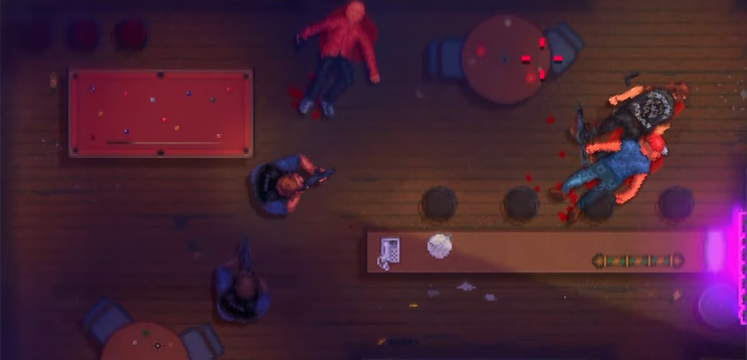
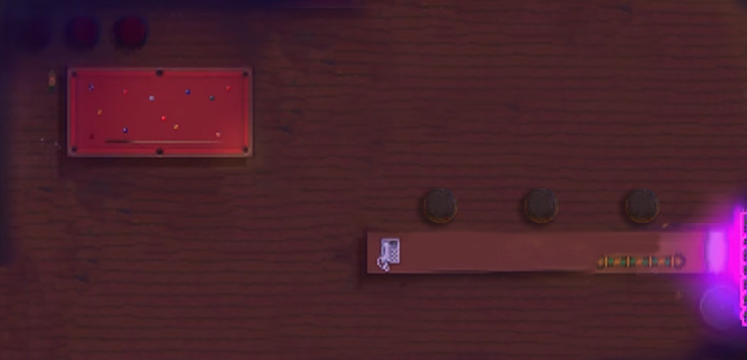
map extended and collision added

diff --git a/assignment/JS-PROJECTS/final-project/js/roomBorder.js b/assignment/JS-PROJECTS/final-project/js/roomBorder.js
@@ -1,15 +1,25 @@
 function RoomBorder(c,x,y,t,r,b,l,room){
   this.c = c;
+  this.doorGap=70;
   this.roomInfo = room;
   this.horiBorderImage = document.getElementById('horiBorder');
   this.vertiBorderImage = document.getElementById('vertiBorder');
-  console.log("room",this.roomInfo);
   this.sides = {
     top :t,
     right :r,
     bottom :b,
     left :l
   }
+  this.doorVertical = {
+    topX:this.roomInfo.x,
+    topY:this.roomInfo.y,
+    topHeight:this.roomInfo.height/2-10,
+    bottomHeight:this.roomInfo.height/2-10,
+    bottomX:this.roomInfo.x,
+    bottomY:this.roomInfo.y+this.doorGap,
+    width:30
+  }
+
   this.verticalBorder = {
     x:this.roomInfo.x,
     y:this.roomInfo.y,
@@ -22,6 +32,7 @@ function RoomBorder(c,x,y,t,r,b,l,room){
     width:this.roomInfo.width,
     height:30
   }
+
 
   this.renderBorder = function(){
     if(this.sides.top==1){
@@ -60,8 +71,30 @@ function RoomBorder(c,x,y,t,r,b,l,room){
       // this.verticalBorder.width,this.verticalBorder.height);
       // this.c.fill();
     }
+
+    // //render door
+    // if(this.sides.left==2){
+    //   this.c.beginPath();
+    //   this.c.drawImage(this.vertiBorderImage,this.doorVertical.topX-this.doorVertical.width,this.doorVertical.topY,
+    //   this.doorVertical.width,this.doorVertical.topHeight);
+    // //  console.log("roomx",this.roomInfo.x, "doorX",this.doorVertical.topX);
+    //
+    //   this.c.beginPath();
+    //   this.c.drawImage(this.vertiBorderImage,this.doorVertical.bottomX-this.doorVertical.width,this.doorVertical.bottomY+this.doorGap,
+    //   this.doorVertical.width,this.doorVertical.bottomHeight);
+    //   //console.log("roomx",this.roomInfo.x, "doorX",this.doorVertical.bottomY);
+    //   // this.c.fillStyle="brown";
+    //   // this.c.rect(this.verticalBorder.x-this.verticalBorder.width,this.verticalBorder.y,
+    //   // this.verticalBorder.width,this.verticalBorder.height);
+    //   // this.c.fill();
+    // }
   }
 
+  this.initDoor = function(){
+
+  }
+
+//check collision here
   this.checkBorderCollision = function(player){
     this.player = player;
 
@@ -151,25 +184,6 @@ function RoomBorder(c,x,y,t,r,b,l,room){
         }
     }
 
-    // //collsion test on the top wall
-    // if(this.sides.bottom ==1){
-    //   if(this.horizontalBorder.y+ this.horizontalBorder.height+(this.roomInfo.height-10)>= this.player.y-(this.player.height/2) &&
-    //     this.horizontalBorder.x+(this.roomInfo.width-10)<= this.player.width +this.player.x-(this.player.width/2) &&
-    //     this.horizontalBorder.y+this.horizontalBorder.height>= this.player.y &&
-    //     this.horizontalBorder.y<=this.player.y+this.player.height){
-    //       //check right side of collision
-    //       if(this.horizontalBorder.x+(this.roomInfo.width-10)>this.player.x ){
-    //         console.log("collided from bottom side");
-    //         this.player.moveup=false;
-    //         this.player.x-=0.5;
-    //       }
-    //       //check left side of collision
-    //       if(this.horizontalBorder.x+(this.roomInfo.width-10)<=this.player.x ){
-    //         console.log("collided from left side");
-    //         this.player.moveup=false;
-    //         this.player.x+=0.5;
-    //       }
-    //     }
-    // }
+
   }
 }

diff --git a/assignment/JS-PROJECTS/final-project/js/RoomManagement.js b/assignment/JS-PROJECTS/final-project/js/RoomManagement.js
@@ -10,27 +10,63 @@ function ManageRoom(c){
  * color of the room and name of the room
  */
 
+
+//main entrance room
   this.entrance1 = new Room(this.c,770,100,359,168,0,1,0,1,'#949494',"entrance1");//top left room
   this.img = document.getElementById('entrance1');
   this.entrance1.setBgImage(this.img);
   this.roomArr.push(this.entrance1);
 
-  this.entrance = new Room(this.c,770,-94,168,194,1,0,0,0,'#949494',"entrance2");//top left room
+  this.entrance = new Room(this.c,770,-94,168,194,1,0,0,2,'#949494',"entrance2");//top left room
   this.img = document.getElementById('entrance2');
   this.entrance.setBgImage(this.img);
   this.roomArr.push(this.entrance);
+
+
+
+  this.bathroom1 = new Room(this.c,968,-94,362,169,0,1,1,1,'#949494',"bathroom1");//top left room
+  this.img = document.getElementById('bathroom1');
+  this.bathroom1.setBgImage(this.img);
+  this.roomArr.push(this.bathroom1);
+
+  this.bathroom2 = new Room(this.c,1163,-285,167,191,1,1,0,1,'#949494',"bathroom2");//top left room
+  this.img = document.getElementById('bathroom2');
+  this.bathroom2.setBgImage(this.img);
+  this.roomArr.push(this.bathroom2);
+
 
   this.livingroom = new Room(this.c,380,-124,361,387,0,0,1,1,'#949494',"livingroom1");
   this.img = document.getElementById('livingroom');
   this.livingroom.setBgImage(this.img);
   this.roomArr.push(this.livingroom);
 
-  this.livingroom = new Room(this.c,380,-487,747,363,0,0,0,1,'#949494',"livingroom2");
+  this.livingroom = new Room(this.c,380,-487,753,363,0,0,0,1,'#949494',"livingroom2");
   this.img = document.getElementById('livingroom2');
   this.livingroom.setBgImage(this.img);
   this.roomArr.push(this.livingroom);
 
-  this.livingroom = new Room(this.c,380,-848,553,361,1,1,0,1,'#949494',"meetingHall");
+
+  this.path1 = new Room(this.c,1133,-487,225,173,0,0,0,0,'#949494',"path1");
+  this.img = document.getElementById('path1');
+  this.path1.setBgImage(this.img);
+  this.roomArr.push(this.path1);
+
+  this.path2 = new Room(this.c,1358,-680,170,193,0,0,0,0,'#949494',"path2");
+  this.img = document.getElementById('path2');
+  this.path2.setBgImage(this.img);
+  this.roomArr.push(this.path2);
+
+  this.path3 = new Room(this.c,1358,-487,170,173,0,0,0,0,'#949494',"path3");
+  this.img = document.getElementById('path3');
+  this.path3.setBgImage(this.img);
+  this.roomArr.push(this.path3);
+
+  this.path4 = new Room(this.c,1358,-314,170,173,0,0,0,0,'#949494',"path4");
+  this.img = document.getElementById('path4');
+  this.path4.setBgImage(this.img);
+  this.roomArr.push(this.path4);
+
+  this.livingroom = new Room(this.c,380,-878,553,361,1,1,0,1,'#949494',"meetingHall");
   this.img = document.getElementById('meetingHall');
   this.livingroom.setBgImage(this.img);
   this.roomArr.push(this.livingroom);

diff --git a/assignment/JS-PROJECTS/final-project/index.html b/assignment/JS-PROJECTS/final-project/index.html
@@ -10,8 +10,16 @@
     <!-- rooms images -->
     <img src="images/entrance.png" alt="" id="entrance1">
     <img src="images/entrance2.png" alt="" id="entrance2">
+
+    <img src="images/bathroom1.png" alt="" id="bathroom1">
+    <img src="images/bathroom2.png" alt="" id="bathroom2">
+
     <img src="images/livingroom1.png" alt="" id="livingroom">
     <img src="images/livingroom2.png" alt="" id="livingroom2">
+    <img src="images/path1.png" alt="" id="path1">
+      <img src="images/path2.png" alt="" id="path2">
+      <img src="images/path3.png" alt="" id="path3">
+      <img src="images/path4.png" alt="" id="path4">
 
     <img src="images/meetingHall.png" alt="" id="meetingHall">
 

diff --git a/assignment/JS-PROJECTS/final-project/js/Rooms.js b/assignment/JS-PROJECTS/final-project/js/Rooms.js
@@ -32,6 +32,10 @@ function Room(c,x,y,width,height,t,r,d,l,color,name) {
     this.room.y-=player.moveY;
     this.borderObj.verticalBorder.x-=player.moveX;
     this.borderObj.verticalBorder.y-=player.moveY;
+    this.borderObj.doorVertical.topX-=player.moveX;
+    this.borderObj.doorVertical.topY-=player.moveY;
+    this.borderObj.doorVertical.bottomX-=player.moveX;
+    this.borderObj.doorVertical.bottomY-=player.moveY;
     this.borderObj.horizontalBorder.x-=player.moveX;
     this.borderObj.horizontalBorder.y-=player.moveY;
     this.draw();

diff --git a/assignment/JS-PROJECTS/final-project/js/playerController.js b/assignment/JS-PROJECTS/final-project/js/playerController.js
@@ -5,9 +5,9 @@ function Player(c,width,height){
   this.gameHeight=height;
   this.x=this.gameWidth/2;
   this.y=this.gameHeight/2;
-  this.speed =0.7;
-  this.width=75;
-  this.height=75;
+  this.speed =1;
+  this.width=70;
+  this.height=70;
   this.moveup= false;
   this.movedown = false;
   this.moveleft=false;

diff --git a/assignment/JS-PROJECTS/final-project/js/enemy.js b/assignment/JS-PROJECTS/final-project/js/enemy.js
@@ -1,0 +1,16 @@
+function Enemy(c,x,y){
+  this.c = c;
+  this.x=x;
+  this.y= y;
+  this.width = 100;
+  this.height = 100;
+  this.draw = function(){
+    this.c.beginPath();
+    this.c.rect(this.x,this.y,this.width,this.height);
+    this.c.fill();
+  }
+
+  this.updatePosition = function(){
+    
+  }
+}

diff --git a/assignment/JS-PROJECTS/final-project/css/style.css b/assignment/JS-PROJECTS/final-project/css/style.css
@@ -5,7 +5,7 @@
 #canvas{
   border: 1px solid black;
   cursor: none;
-    background-color: #ada9a8;
+    background-color: black;
 }
 img{
   display: none;
